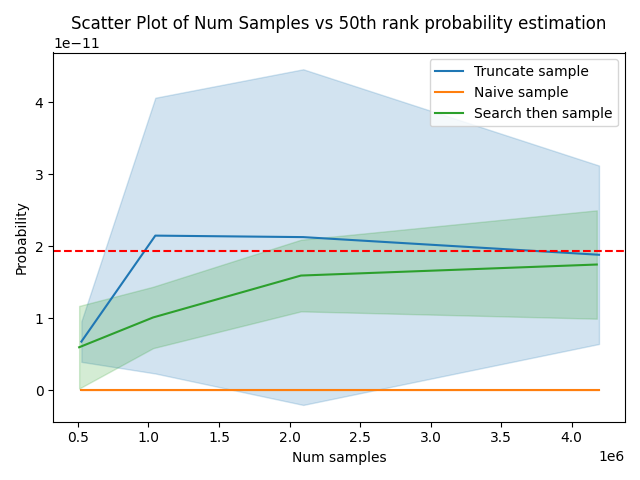
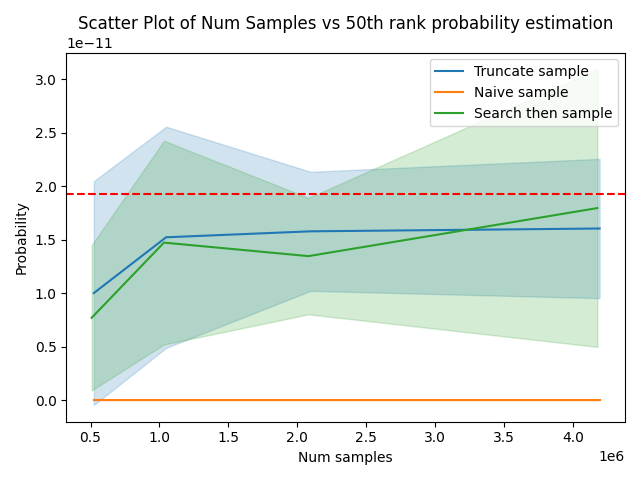
llama

diff --git a/logit-estimation/estimators.py b/logit-estimation/estimators.py
@@ -301,7 +301,7 @@ if __name__ == "__main__":
     gpt = "gpt2"
 
     USE_LLAMA = False
-    #USE_LLAMA = True
+    USE_LLAMA = True
 
     if not USE_LLAMA:
         model = gpt
